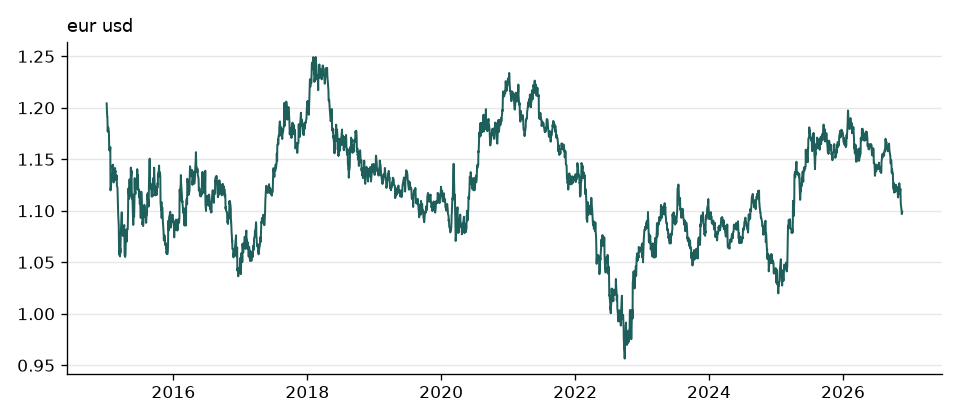
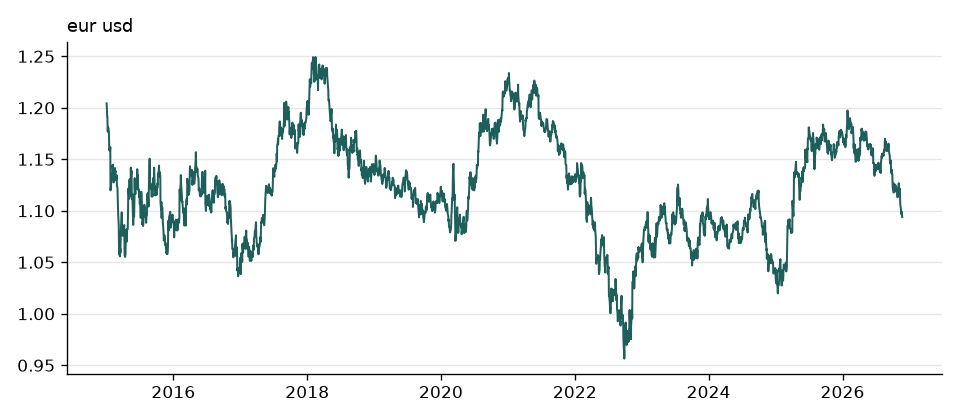
Data update 2026-11-23

diff --git a/README.md b/README.md
@@ -4,8 +4,8 @@ This data analysis tool visits major economic websites daily to download and org
 Automated ETL pipeline collecting macro and financial indicators from the
 ECB Data Portal, Eurostat, and FRED. Using GitHub Actions, this program is configured to run automatically every day without manual intervention, ensuring the latest statistics and figures are always kept up to date.
 
-**Last updated:** 2026-11-22 13:57 UTC
-**Observations stored:** 8,293
+**Last updated:** 2026-11-23 17:12 UTC
+**Observations stored:** 8,295
 
 ## Indicators
 
@@ -21,8 +21,8 @@ sides of the Atlantic.
 
 | Series | Source | Frequency | Latest date | Latest value |
 |---|---|---|---|---|
-| `ecb_policy_rate` | ecb | daily | 2026-11-22 | 2.65 |
-| `eur_usd` | ecb | daily | 2026-11-20 | 1.099 |
+| `ecb_policy_rate` | ecb | daily | 2026-11-23 | 2.65 |
+| `eur_usd` | ecb | daily | 2026-11-23 | 1.094 |
 | `hicp_euro_area` | eurostat | monthly | 2025-12-01 | 2 |
 | `unemployment_euro_area` | eurostat | monthly | 2026-09-01 | 6.5 |
 | `us_cpi` | fred | monthly | 2026-10-01 | 337.5 |
